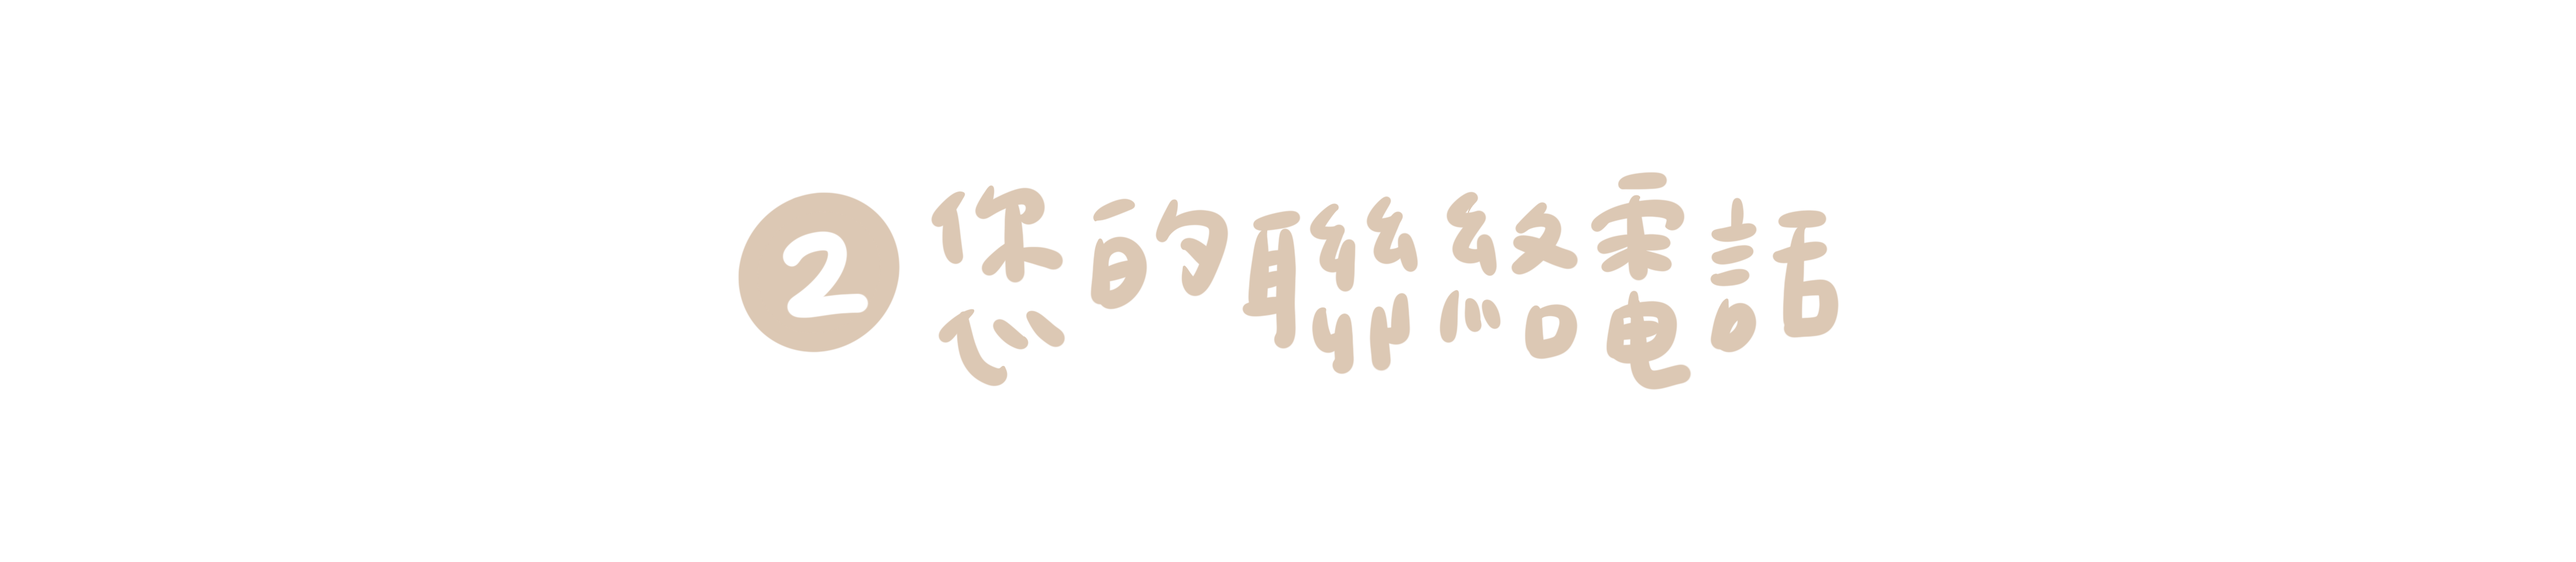
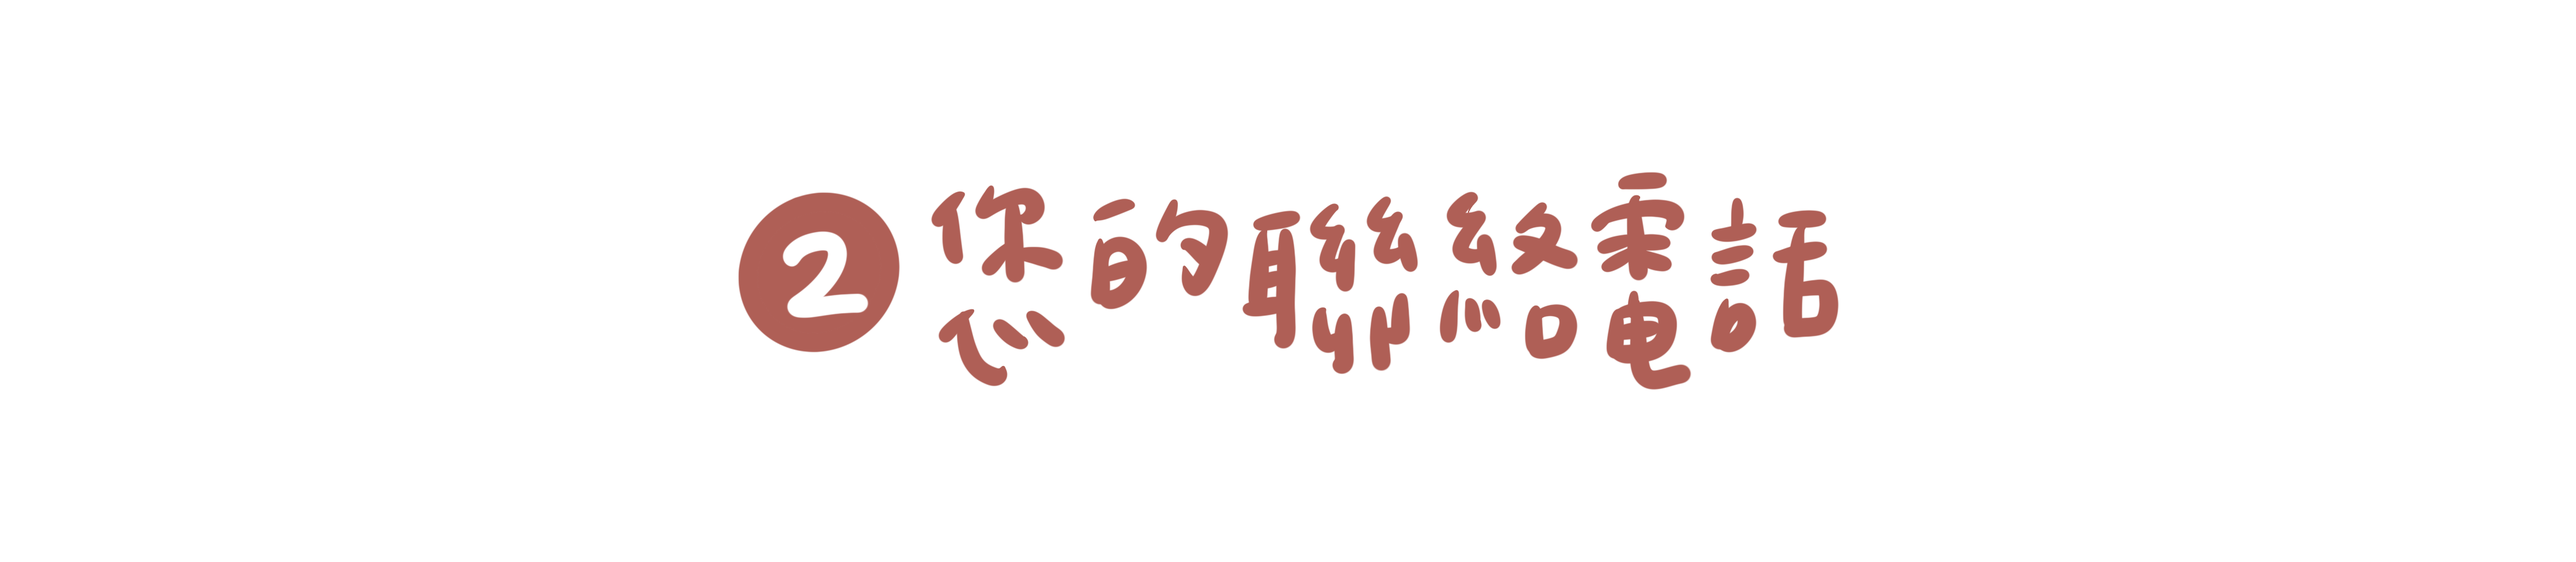
2022/07/17 圖片顏色調整

Changed region(s): [[0.2804, 0.307, 0.7165, 0.7061]]

diff --git a/src/components/form.vue b/src/components/form.vue
@@ -29,9 +29,6 @@
     <img class="photo" :src="formQ3" alt="" />
     <!-- <h1>3</h1>
     <b>和新人的關係</b> -->
-    <div class="hint">
-      鴻海夥伴請選"鴻海專屬，我都熟～～"，別擔心你們都有餅！
-    </div>
 
     <div class="wrap">
       <div class="radio_option">
@@ -67,6 +64,9 @@
         <label for="relation3">鴻海專屬，我都熟～～</label>
       </div>
     </div>
+    <div class="hint">
+      鴻海夥伴請選"鴻海專屬，我都熟～～"，你們都有餅♡
+    </div>
 
     <div class="margin_top_45"></div>
 
@@ -74,7 +74,6 @@
     <img class="photo" :src="formQ4" alt="" />
     <!-- <h1>4</h1>
     <b>是否出席婚宴</b> -->
-    <div class="hint">無法前來的朋友請不要有壓力，非常感謝你們的祝福！</div>
 
     <div class="wrap">
       <div class="radio_option">
@@ -96,6 +95,7 @@
         >
       </div>
     </div>
+    <div class="hint">無法前來的朋友請不要有壓力，非常感謝你們的祝福♡</div>
     <div class="margin_top_45"></div>
 
     <!------------- 第五題 ------------->
@@ -344,7 +344,7 @@ img {
 .hint {
   font-size: 12px;
   color: rgb(85, 81, 81);
-  margin-bottom: 20px;
+  margin-top: 10px;
 }
 
 input[type="text"],

diff --git a/src/components/section5.vue b/src/components/section5.vue
@@ -22,7 +22,7 @@
       <p>見證我們此生最重要的決定</p>
       <div class="margin_top_20"></div>
       <p>感謝您 不辭千里</p>
-      <p>為我們而來</p>
+      <p>為我們而來♡</p>
     </div>
     <!-- 文字 end -->
 
